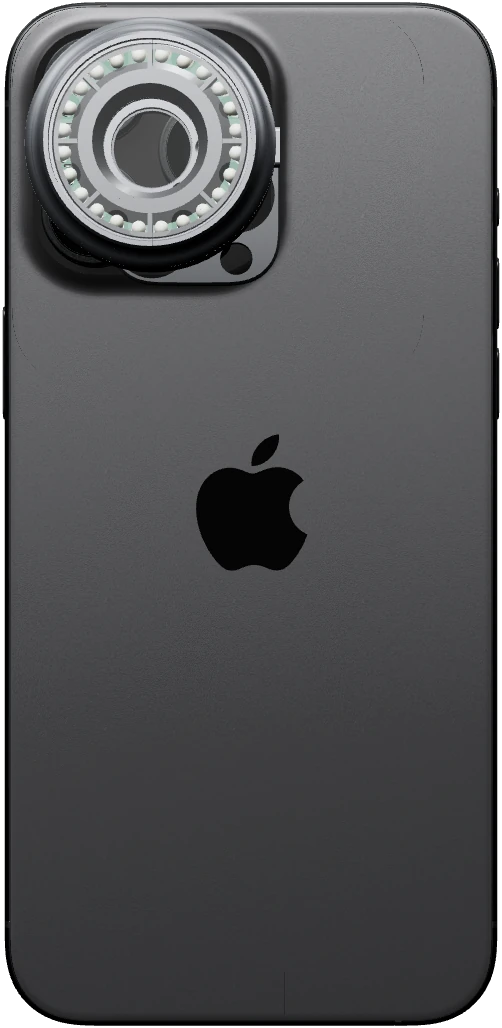
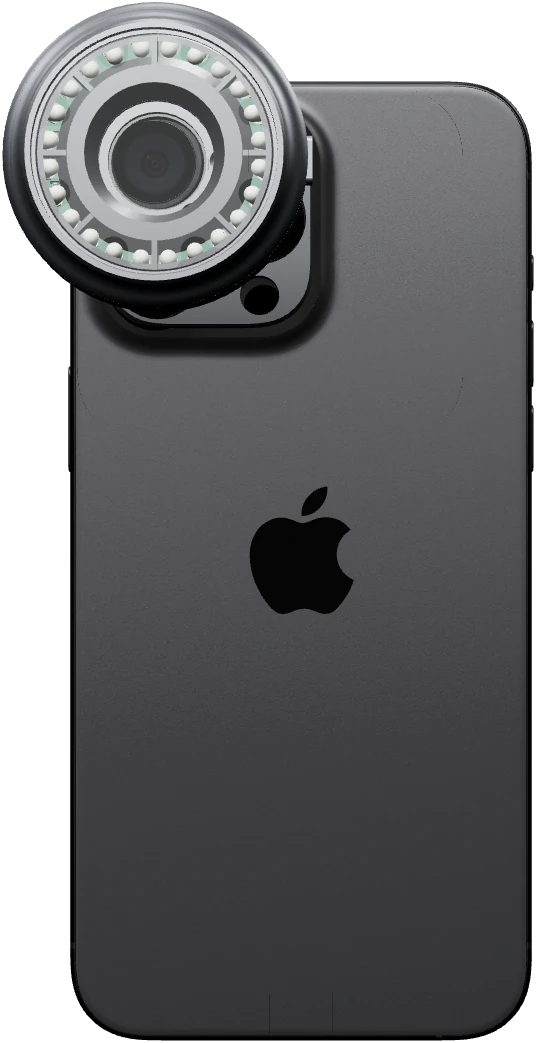
Size the flacara v5 by its mounting plate, not the housing
The CAD's square steel plate is what sits on the iPhone's camera plateau,
reaching its rounded corners, so the device is now scaled and placed by
that plate instead of a guessed housing diameter: the base covers the
plateau and the ring is correspondingly larger, overhanging the phone's
top corner. Stills re-rendered; the flip render is offset so the phone
body, not the wider picture, is what lines up with the phone.

Changed region(s): [[0.0, 0.0, 1.0, 1.0], [0.3884, 0.4047, 0.6574, 0.5914], [0.8367, 0.9961, 0.8665, 1.0]]

diff --git a/device-fit.js b/device-fit.js
@@ -2,16 +2,17 @@
    camera plateau. Shared by phone3d.js (the live 3D phone) and
    tools/fit-device.html (the stills), so both put it in the same place.
 
-   The CAD came through an online converter: its units are lost (it's sized
-   here by the housing's real diameter) and every material is flat and
-   non-metallic, so finishes are restored from the material names. */
+   The CAD came through an online converter: its units are lost and every
+   material is flat and non-metallic. It is sized by its mounting plate — the
+   square steel plate under the housing is the part that sits on the phone's
+   camera plateau and reaches its rounded corners, so the plate is scaled to
+   the plateau — and the finishes are restored from the material names. */
 import * as THREE from 'three';
 
-// iPhone model (metres): the camera plateau's centre on the back face,
-// and the height of its top surface
-const PLATEAU = { x: -0.0152, y: 0.0561, z: 0.0062 };
-// the housing's outer diameter in the CAD's own units, and the real one
-const HOUSING_CAD = 1.331, HOUSING_M = 0.038;
+// iPhone model (metres): the camera plateau's top face
+const PLATEAU = { min: { x: -0.0323, y: 0.0384 }, max: { x: 0.0019, y: 0.0737 }, z: 0.0062 };
+// the CAD's mounting plate, in its own units (Body1_5, z = -0.0864..0)
+const PLATE = { min: { x: -0.2411, y: -0.7297 }, max: { x: 0.6919, y: 0.2411 }, bottom: -0.0864 };
 
 function finish(mat) {
   const n = (mat.name || '').toLowerCase();
@@ -25,11 +26,18 @@ function finish(mat) {
 
 export function seatDevice(phone, device) {
   device.traverse((o) => { if (o.isMesh) o.material = finish(o.material); });
+  const plateW = PLATE.max.x - PLATE.min.x, plateauW = PLATEAU.max.x - PLATEAU.min.x;
+  const s = plateauW / plateW;
   const holder = new THREE.Group();
   holder.add(device);
-  holder.scale.setScalar(HOUSING_M / HOUSING_CAD);
-  // the CAD's base (z = 0) sits on the plateau, glass facing out the back
-  holder.position.set(PLATEAU.x, PLATEAU.y, PLATEAU.z);
+  holder.scale.setScalar(s);
+  // the plate's centre over the plateau's centre, its underside on the plateau's top
+  const plateCx = (PLATE.min.x + PLATE.max.x) / 2, plateCy = (PLATE.min.y + PLATE.max.y) / 2;
+  holder.position.set(
+    (PLATEAU.min.x + PLATEAU.max.x) / 2 - plateCx * s,
+    (PLATEAU.min.y + PLATEAU.max.y) / 2 - plateCy * s,
+    PLATEAU.z - PLATE.bottom * s
+  );
   holder.name = 'flacara-v5';
   phone.add(holder);
   return holder;

diff --git a/clinicians.html b/clinicians.html
@@ -162,7 +162,7 @@
 
           <div class="fl-phone-float">
           <div class="fl-swap__stage" data-tilt data-reveal="scale">
-          <img class="fl-swap__back" src="images/h1-seated.webp" width="502" height="1028" alt="flacara h1 seated over the camera of an iPhone, seen from the back">
+          <img class="fl-swap__back" src="images/h1-seated.webp" width="536" height="1043" alt="flacara h1 seated over the camera of an iPhone, seen from the back">
           <div class="fl-phone">
             <span class="fl-phone__btn fl-phone__btn--action" aria-hidden="true"></span>
             <span class="fl-phone__btn fl-phone__btn--vol-up" aria-hidden="true"></span>
@@ -247,10 +247,10 @@
       </div>
       <div class="fl-perroom__now">
         <div class="fl-perroom__units">
-          <figure><img src="images/h1-seated.webp" width="502" height="1028" alt=""><figcaption>Room 1</figcaption></figure>
-          <figure><img src="images/h1-seated.webp" width="502" height="1028" alt=""><figcaption>Room 2</figcaption></figure>
-          <figure><img src="images/h1-seated.webp" width="502" height="1028" alt=""><figcaption>Room 3</figcaption></figure>
-          <figure><img src="images/h1-seated.webp" width="502" height="1028" alt=""><figcaption>Room 4</figcaption></figure>
+          <figure><img src="images/h1-seated.webp" width="536" height="1043" alt=""><figcaption>Room 1</figcaption></figure>
+          <figure><img src="images/h1-seated.webp" width="536" height="1043" alt=""><figcaption>Room 2</figcaption></figure>
+          <figure><img src="images/h1-seated.webp" width="536" height="1043" alt=""><figcaption>Room 3</figcaption></figure>
+          <figure><img src="images/h1-seated.webp" width="536" height="1043" alt=""><figcaption>Room 4</figcaption></figure>
         </div>
         <div class="fl-perroom__sum"><strong>$249</strong><span>each · $996 for four rooms</span></div>
       </div>

diff --git a/flacara.css b/flacara.css
@@ -2035,8 +2035,11 @@ img.fl-slot { width: 100%; height: auto; object-fit: cover; }
 .fl-swap-section--flip .fl-swap__stage { perspective: 1400px; transform-style: flat; }
 .fl-swap__back {
   position: absolute; left: 50%; top: 50%; z-index: 1; pointer-events: none;
-  width: var(--ph-w, 340px); max-width: 76vw; height: auto;
-  translate: -50% -50%; opacity: 0; rotate: y 90deg;
+  /* the render is wider than the phone (the housing overhangs its corner):
+     sized so the phone body matches .fl-phone, and shifted so the phone's
+     centre, not the picture's, sits on the stage's centre */
+  width: calc(var(--ph-w, 340px) * 1.1602); max-width: calc(76vw * 1.1602); height: auto;
+  translate: -56.06% -53.74%; opacity: 0; rotate: y 90deg;
   filter: drop-shadow(0 40px 50px rgba(74,32,24,.25));
   transition: rotate .45s cubic-bezier(.55,0,1,.45), opacity .3s linear .15s;
 }
